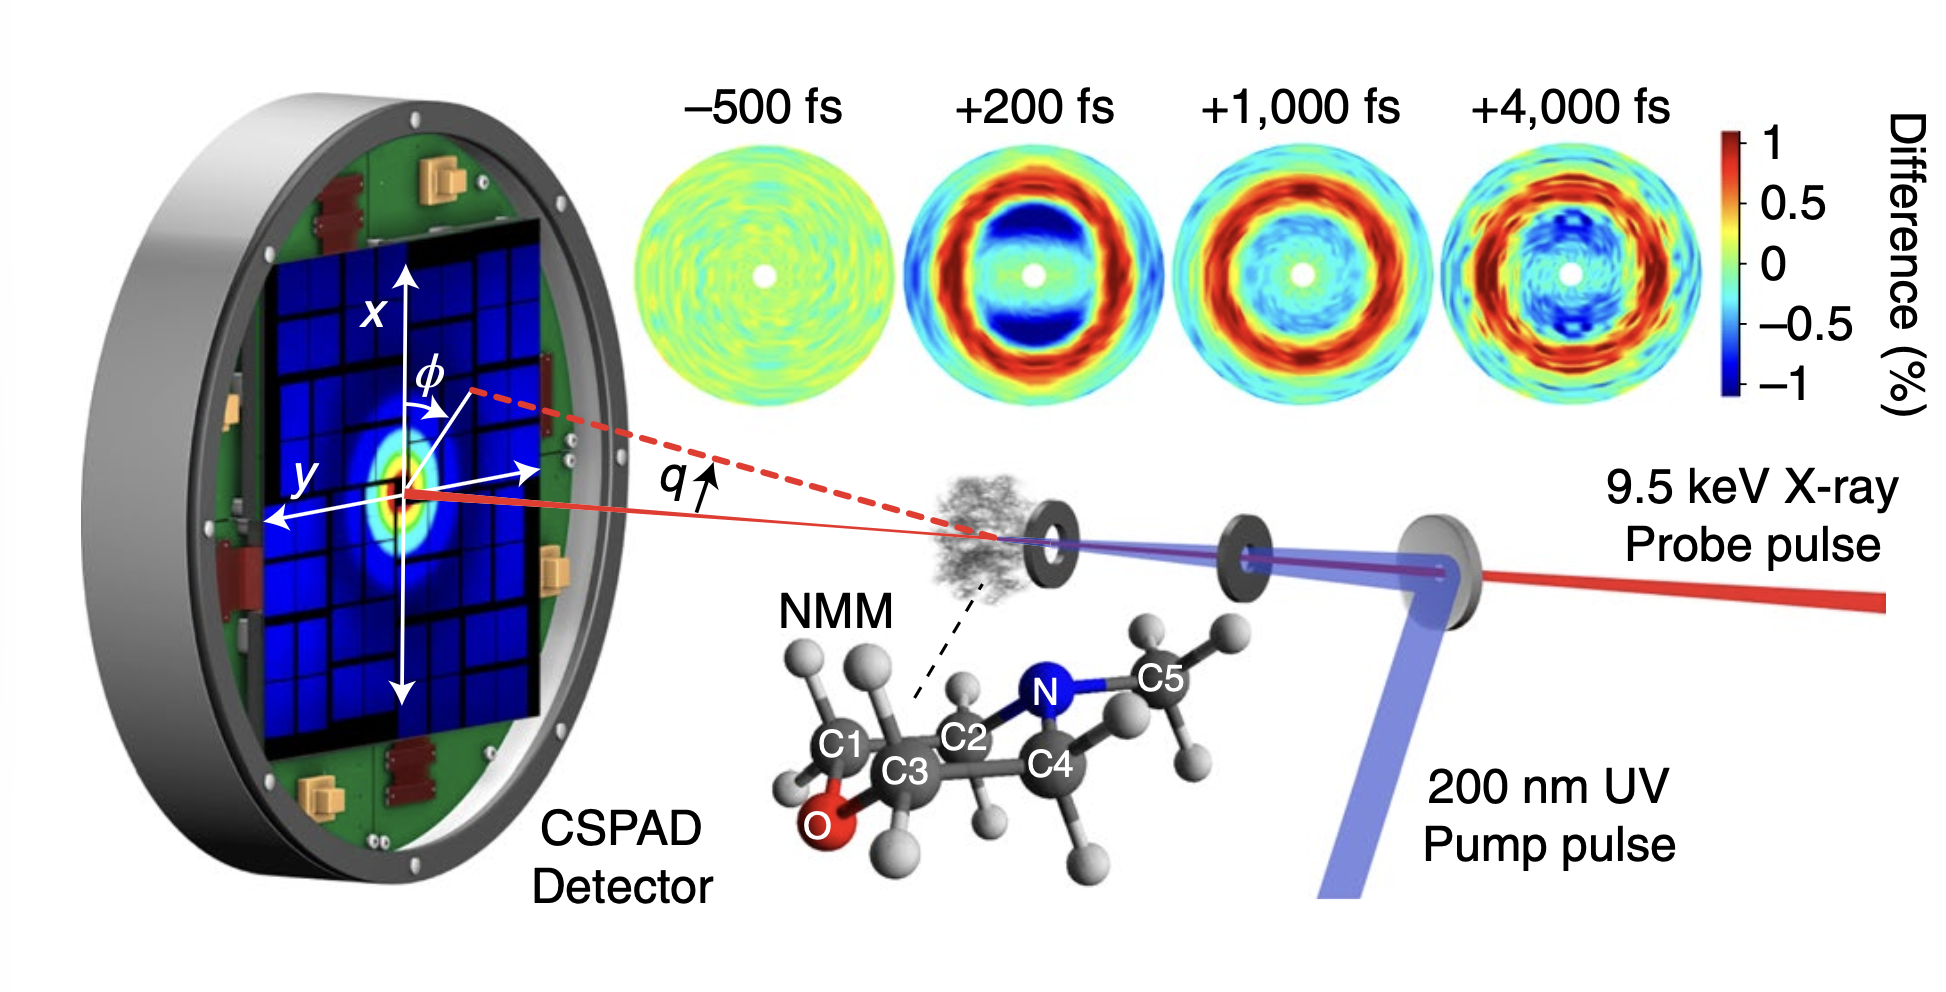
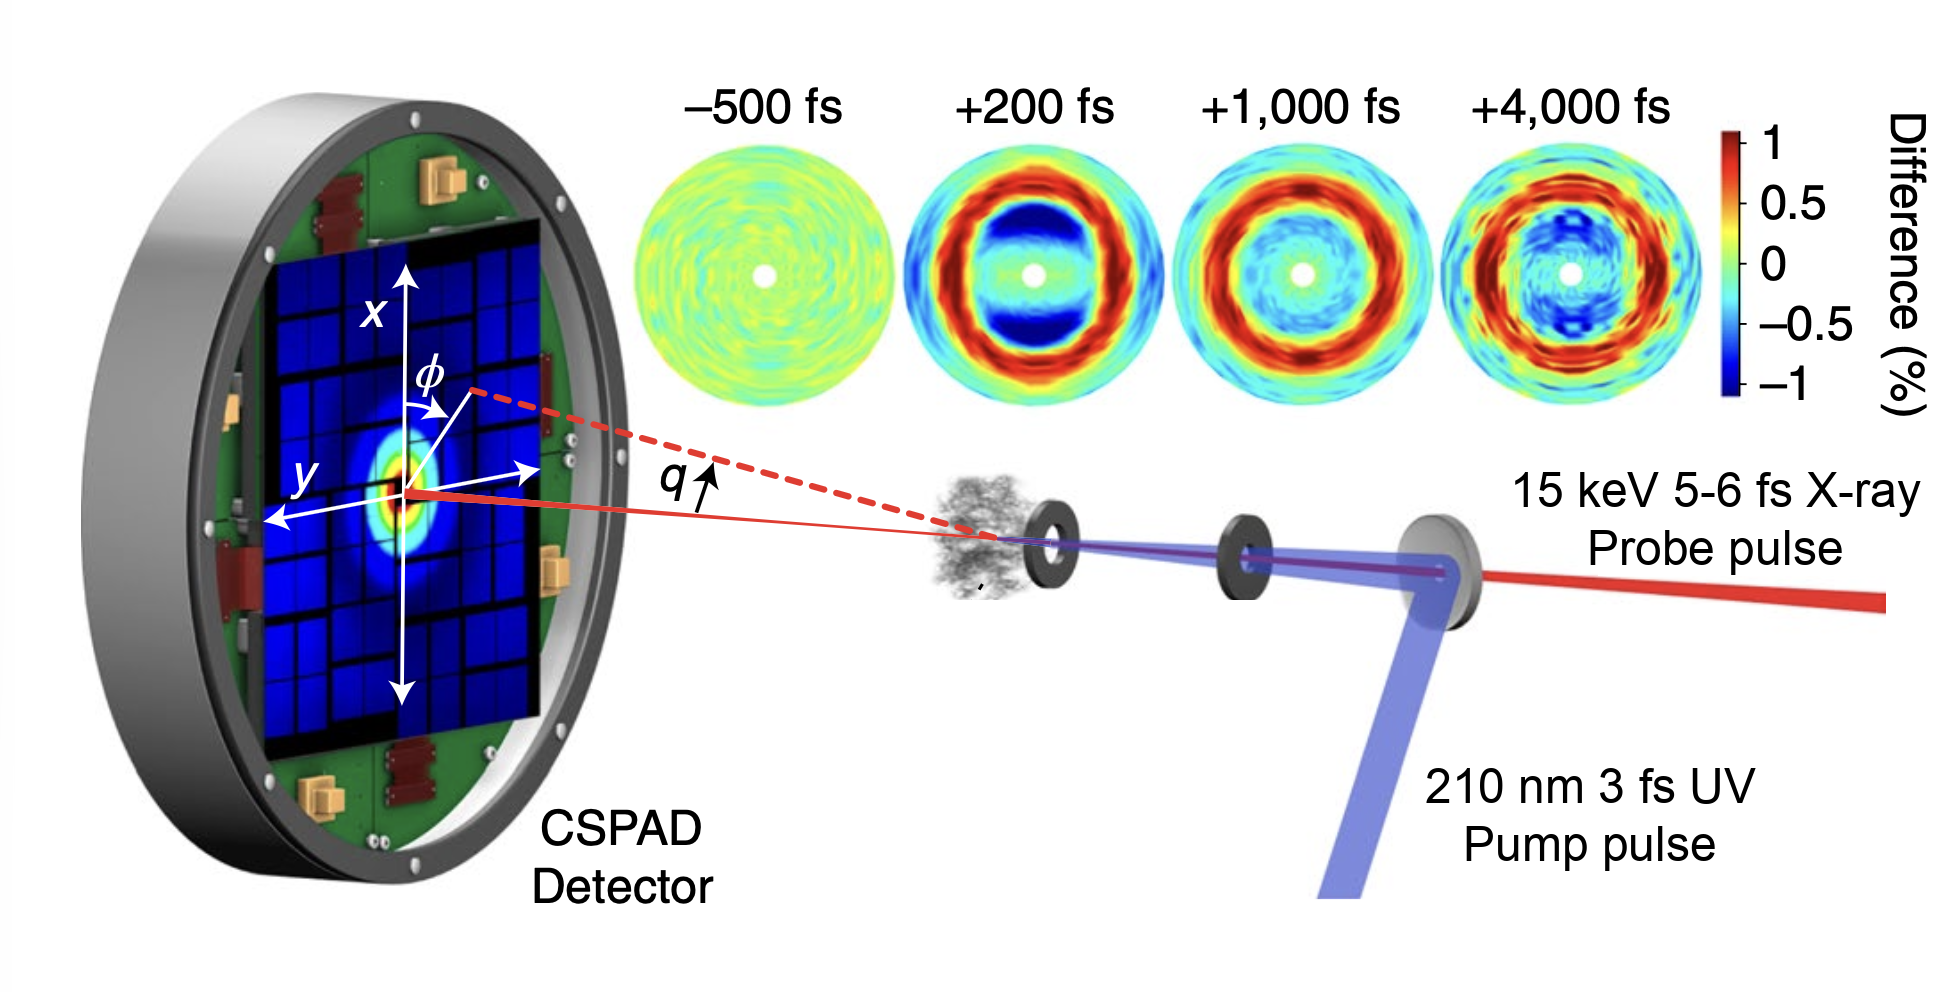
Rearrange slides

Changed region(s): [[0.37, 0.5938, 0.6475, 0.9062], [0.7708, 0.4688, 0.9866, 0.5938], [0.7091, 0.75, 0.8941, 0.875]]

diff --git a/presentations/2026/07-23-telluride/slides/vibrational_washout/vibrational_washout.html b/presentations/2026/07-23-telluride/slides/vibrational_washout/vibrational_washout.html
@@ -1,37 +1,30 @@
         <section>
-          <h3 style="margin: 0 0 0.3em;">Why No Coherent Oscillations in the Data?</h3>
-          <div style="display: flex; gap: 1.3em; align-items: stretch;">
+          <h3 style="margin: 0 0 0.25em;">Why No Oscillations in the Data?</h3>
+          <div style="display: flex; gap: 0.7em; align-items: center; margin-left: -2%;">
 
-            <!-- Left: stacked temporal line-outs, experiment above theory -->
-            <div style="flex: 1.15; display: flex; flex-direction: column; gap: 0.55em; min-width: 0;">
-              <div style="flex: 1; min-height: 165px; border: 2px dashed #bbb; border-radius: 6px;
-                          background: #fafafa; display: flex; align-items: center; justify-content: center;
-                          color: #999; font-size: 0.4em; text-align: center; padding: 0.5em;">
-                Experiment — $\Delta S(\tau)$ line-out
-              </div>
-              <div style="flex: 1; min-height: 165px; border: 2px dashed #bbb; border-radius: 6px;
-                          background: #fafafa; display: flex; align-items: center; justify-content: center;
-                          color: #999; font-size: 0.4em; text-align: center; padding: 0.5em;">
-                Simulation ($v=0$ Wigner) — $\Delta S(\tau)$ line-out
-              </div>
-              <p style="font-size: 0.3em; color: #666; text-align: center; margin: 0;">
-                Temporal line-out at $Q \approx 4.5$ Å⁻¹
-              </p>
+            <!-- Left: 2x2 grid of temporal line-outs, experiment above simulation -->
+            <div style="flex: 3.2; display: grid; grid-template-columns: auto 1fr 1fr;
+                        gap: 0.12em 0.4em; align-items: center;">
+              <div></div>
+              <div style="text-align: center; font-size: 0.32em; color: #44546A; font-weight: 600;">Q = 4.3–4.7 Å⁻¹</div>
+              <div style="text-align: center; font-size: 0.32em; color: #44546A; font-weight: 600;">Q = 0.8–1.5 Å⁻¹</div>
+
+              <div style="font-size: 0.32em; color: #44546A; font-weight: 600; writing-mode: vertical-rl; transform: rotate(180deg); text-align: center;">Experiment</div>
+              <img src="figures/data_vs_time_4.3_4.7.png" style="width: 100%; display: block;" />
+              <img src="figures/data_vs_time_0.8_1.5.png" style="width: 100%; display: block;" />
+
+              <div style="font-size: 0.32em; color: #44546A; font-weight: 600; writing-mode: vertical-rl; transform: rotate(180deg); text-align: center;">Simulation</div>
+              <img src="figures/scattering_vs_time_4.3_4.7.png" style="width: 100%; display: block;" />
+              <img src="figures/scattering_vs_time_0.8_1.5.png" style="width: 100%; display: block;" />
             </div>
 
-            <!-- Right: explanation -->
-            <div style="flex: 1; font-size: 0.40em;">
+            <!-- Right: reduced explanation -->
+            <div style="flex: 1.4; font-size: 0.44em;">
               <div class="col-box" style="border: 1px solid #ddd; border-radius: 8px; padding: 0.7em 0.9em;">
                 <ul style="margin: 0; padding-left: 1.2em;">
-                  <li>Simulations sample a <strong>$v=0$ Wigner distribution</strong> — the vibrational ground state, i.e. effectively vibrationally cold</li>
-                  <li>Theory predicts <strong>coherent oscillations</strong> in $\Delta S(\tau)$, but the measured signal rises smoothly with the oscillation washed out</li>
-                  <li>Two low-frequency modes are likely <strong>vibrationally hot</strong> in the real sample and dephase the coherent motion:
-                    <ul style="margin: 0.25em 0 0; padding-left: 1.1em; list-style: none;">
-                      <li>C–C torsion — <strong>168 cm⁻¹</strong> &nbsp;($\approx$ 200 fs period)</li>
-                      <li>C–C=C deformation — <strong>293 cm⁻¹</strong> &nbsp;($\approx$ 114 fs period)</li>
-                    </ul>
-                  </li>
-                  <li>These periods overlap the structural-oscillation timescale, so thermal spread across the modes smears the coherence in the ensemble average</li>
+                  <li><strong>65 fs (513 cm⁻¹)</strong> oscillation in simulation</li>
+                  <li>Matches C–C=C $A_g$ deformation mode</li>
+                  <li>C–C torsion $A_u$ (168 cm⁻¹, 200 fs) and C–C=C deformation $B_u$ (293 cm⁻¹, 114 fs) thermally accessible</li>
                 </ul>
               </div>
             </div>

diff --git a/presentations/2026/07-23-telluride/slides/butadiene_theory/butadiene_theory.html b/presentations/2026/07-23-telluride/slides/butadiene_theory/butadiene_theory.html
@@ -1,0 +1,40 @@
+        <section>
+          <h3 style="margin: 0 0 0.3em;">Butadiene — Comparison with Nonadiabatic Dynamics</h3>
+          <div style="position: relative; width: 106%; margin-left: -3%;">
+            <img src="figures/butadiene_theory_comparison.png"
+                 style="width: 100%; display: block;" />
+            <!-- Overlay aligned to the figure's data axes (viewBox = image px).
+                 Left panel:  x = 132.5 + 104.75*Q,  y = 596 - 1.3225*tau
+                 Right panel: x = 1276  + 117*Q,     y = 598 - 1.3325*tau -->
+            <svg viewBox="0 0 2352 866" preserveAspectRatio="none"
+                 style="position: absolute; inset: 0; width: 100%; height: 100%; pointer-events: none; overflow: visible;">
+              <defs>
+                <marker id="btcArrow" viewBox="0 0 10 10" refX="8.5" refY="5"
+                        markerWidth="6" markerHeight="6" orient="auto-start-reverse">
+                  <path d="M0,0 L10,5 L0,10 z" fill="#111111"/>
+                </marker>
+              </defs>
+
+              <!-- Click 1: rising-feature arrow on the experimental panel,
+                   (Q=2, tau=0) -> (Q=3.5, tau=100) -->
+              <g class="fragment" data-fragment-index="0" stroke-linecap="round">
+                <line x1="342" y1="596" x2="499" y2="464" stroke="#ffffff" stroke-width="15"/>
+                <line x1="342" y1="596" x2="499" y2="464" stroke="#111111" stroke-width="7"
+                      marker-end="url(#btcArrow)"/>
+              </g>
+
+              <!-- Click 2: Q = 2 and 3.2 guide lines over tau = 100-400 fs,
+                   on both the experimental (left) and simulated (right) panels -->
+              <g class="fragment" data-fragment-index="1" stroke-linecap="round">
+                <line x1="342"  y1="464" x2="342"  y2="67" stroke="#ffffff" stroke-width="13"/>
+                <line x1="468"  y1="464" x2="468"  y2="67" stroke="#ffffff" stroke-width="13"/>
+                <line x1="1451" y1="465" x2="1451" y2="65" stroke="#ffffff" stroke-width="13"/>
+                <line x1="1591" y1="465" x2="1591" y2="65" stroke="#ffffff" stroke-width="13"/>
+                <line x1="342"  y1="464" x2="342"  y2="67" stroke="#111111" stroke-width="6"/>
+                <line x1="468"  y1="464" x2="468"  y2="67" stroke="#111111" stroke-width="6"/>
+                <line x1="1451" y1="465" x2="1451" y2="65" stroke="#111111" stroke-width="6"/>
+                <line x1="1591" y1="465" x2="1591" y2="65" stroke="#111111" stroke-width="6"/>
+              </g>
+            </svg>
+          </div>
+        </section>

diff --git a/presentations/2026/07-23-telluride/slides/future_outlook/future_outlook.html b/presentations/2026/07-23-telluride/slides/future_outlook/future_outlook.html
@@ -1,0 +1,27 @@
+        <section>
+          <h3 style="margin: 0 0 0.4em;">Outlook</h3>
+          <div style="display: flex; gap: 1.2em; align-items: center;">
+
+            <div style="flex: 1; font-size: 0.44em;">
+              <div class="col-box" style="border: 1px solid #ddd; border-radius: 8px; padding: 0.8em 1em;">
+                <ul style="margin: 0; padding-left: 1.2em;">
+                  <li>Revisit butadiene in a <strong>full experiment</strong> — not a technical commissioning effort — and compare with <strong>methylated butadiene</strong></li>
+                  <li>Explore a <strong>cooled jet</strong> to freeze out $v=0$</li>
+                </ul>
+              </div>
+            </div>
+
+            <div style="flex: 1.25; display: flex; gap: 0.7em; align-items: flex-start;">
+              <div style="flex: 1; text-align: center;">
+                <div style="font-size: 0.34em; color: #44546A; font-weight: 600; margin-bottom: 0.2em;">a) Butadiene</div>
+                <img src="figures/butadiene_populations.png" style="width: 100%; display: block; border: 1px solid #eee; border-radius: 4px;" />
+              </div>
+              <div style="flex: 1; text-align: center;">
+                <div style="font-size: 0.34em; color: #44546A; font-weight: 600; margin-bottom: 0.2em;">b) Methylated Butadiene (T-MeBD)</div>
+                <img src="figures/tmebd_populations.png" style="width: 100%; display: block; border: 1px solid #eee; border-radius: 4px;" />
+                <div style="font-size: 0.28em; color: #777; margin-top: 0.2em;">Adiabatic populations vs time (0–1000 fs): $S_0$ green, $S_1$ blue, $S_2$ red</div>
+              </div>
+            </div>
+
+          </div>
+        </section>

diff --git a/presentations/2026/07-23-telluride/slides/butadiene_dynamics/butadiene_dynamics.html b/presentations/2026/07-23-telluride/slides/butadiene_dynamics/butadiene_dynamics.html
@@ -4,23 +4,29 @@
             <div class="col-box" style="flex: 1; border: 1px solid #ddd; border-radius: 8px; padding: 0.8em;">
               <h3>Photoexcitation</h3>
               <ul>
-                <li>Ground-state <em>s-trans</em> conformer; UV excitation populates the bright $S_2$ ($\pi\pi^*$) state</li>
-                <li>Ultrafast internal conversion $S_2 \to S_1$, typically tens of fs</li>
+                <li>Ground-state <em>s-trans</em> conformer; UV populates the bright $S_2$ ($\pi\pi^*$) state</li>
+                <li>Ultrafast internal conversion $S_2 \to S_1$ (tens of fs)</li>
               </ul>
             </div>
             <div class="col-box" style="flex: 1; border: 1px solid #ddd; border-radius: 8px; padding: 0.8em;">
-              <h3>The $S_1$ Conical Intersection</h3>
+              <h3>Two $S_1$/$S_0$ Conical Intersections</h3>
               <ul>
-                <li>$S_1$ evolves toward a twisted, <strong>pyramidalized</strong> geometry at one terminal carbon — the conical intersection to $S_0$</li>
-                <li>Passage through the CI returns population to the ground state on a sub-200 fs timescale</li>
+                <li><strong>Tw-Py</strong>: terminal-carbon twist + pyramidalization with charge separation — <em>polarized</em>, ethylene-like</li>
+                <li><strong>Transoid</strong>: twist about the central backbone, tetraradical — <em>radicaloid</em>, the cis–trans isomerisation coordinate</li>
               </ul>
             </div>
             <div class="col-box" style="flex: 1; border: 1px solid #ddd; border-radius: 8px; padding: 0.8em;">
-              <h3>Branching at the CI</h3>
+              <h3>Branching Is Decided on $S_1$</h3>
               <ul>
-                <li>Re-forms <em>s-trans</em>, isomerises to the other double-bond rotamer, or (minor channel) ring-closes to cyclobutene</li>
-                <li>Relative branching between simple torsional isomerisation and deeper pyramidalization pathways is the open question this measurement probes</li>
+                <li>The $S_1$ wavepacket bifurcates toward these seams — the branching is set on $S_1$, before reaching $S_0$</li>
+                <li>Simulations strongly favour the <strong>transoid</strong> (isomerisation) channel; the Tw-Py (pyramidalisation) route is minor</li>
+                <li>Terminal methylation further suppresses the polarized Tw-Py channel</li>
               </ul>
             </div>
           </div>
+          <div style="display: flex; gap: 1.8em; justify-content: center; align-items: flex-end; margin-top: 0.45em;">
+            <img src="figures/transoid_meci.png" style="height: 150px; object-fit: contain;" />
+            <img src="figures/twpy_meci.png" style="height: 150px; object-fit: contain;" />
+          </div>
+          <p class="slide-footnote">Seidu et al. <em>Phys. Chem. Chem. Phys.</em> (2022) <strong>24</strong>(3): 1345–1354.</p>
         </section>

diff --git a/presentations/2026/07-23-telluride/slides/mode_decompositions/mode_decompositions.html b/presentations/2026/07-23-telluride/slides/mode_decompositions/mode_decompositions.html
@@ -1,0 +1,15 @@
+        <section>
+          <h3 style="margin: 0 0 0.3em;">Key Structural Modes vs Time</h3>
+          <img src="figures/mode_decompositions.png"
+               style="width: 100%; object-fit: contain; display: block;" />
+          <div style="font-size: 0.40em; margin-top: 0.6em;">
+            <div class="col-box" style="border: 1px solid #ddd; border-radius: 8px; padding: 0.6em 0.9em;">
+              <ul style="margin: 0; padding-left: 1.2em;">
+                <li>Trajectory-ensemble population densities of three key structural coordinates versus delay $\tau$</li>
+                <li><strong>Bond-length alternation</strong> ($r_{C_1C_2} - r_{C_2C_3} + r_{C_3C_4}$): the single/double-bond pattern relaxes toward a common $\sim$1.5 Å on excitation</li>
+                <li><strong>C$_1$ pyramidalization</strong>: the terminal-carbon out-of-plane angle builds within $\sim$100 fs — the approach to the conical intersection</li>
+                <li><strong>Central-bond torsion</strong> ($\phi_{C_1C_2C_3C_4}$): the dihedral spreads from planar toward $\pm$180° — the isomerisation channel</li>
+              </ul>
+            </div>
+          </div>
+        </section>

diff --git a/presentations/2026/07-23-telluride/slides/population_evolution/population_evolution.html b/presentations/2026/07-23-telluride/slides/population_evolution/population_evolution.html
@@ -1,0 +1,13 @@
+        <section>
+          <h3 style="margin: 0 0 0.3em;">Butadiene — Simulated Population Dynamics</h3>
+          <img src="figures/population_evolution.png"
+               style="width: 100%; max-height: 400px; object-fit: contain;" />
+          <div style="font-size: 0.40em; margin-top: 0.5em;">
+            <div class="col-box" style="border: 1px solid #ddd; border-radius: 8px; padding: 0.6em 0.9em;">
+              <ul style="margin: 0; padding-left: 1.2em;">
+                <li>$v=0$ Wigner distribution, vertically projected</li>
+                <li>Ab Initio Multiple Spawning at MR-CIS theory level ((4,4) active space) with 6-31G* basis set</li>
+              </ul>
+            </div>
+          </div>
+        </section>

diff --git a/presentations/2026/07-23-telluride/slides/xray_scattering_intro/xray_scattering_intro.html b/presentations/2026/07-23-telluride/slides/xray_scattering_intro/xray_scattering_intro.html
@@ -1,15 +1,6 @@
         <section>
           <h3 style="margin: 0 0 0.3em;">Gas Phase Hard X-Ray Scattering</h3>
           <img src="figures/CXI_Scattering.png"
-               style="width: 100%; max-height: 400px; object-fit: contain;" />
-          <div style="font-size: 0.40em; margin-top: 0.5em;">
-            <div class="col-box" style="border: 1px solid #ddd; border-radius: 8px; padding: 0.6em 0.9em;">
-              <ul style="margin: 0; padding-left: 1.2em;">
-                <li>Elastic scattering pattern $S(Q)$ is a direct fingerprint of instantaneous atomic positions — no chromophore or transition dipole needed, unlike optical spectroscopy</li>
-                <li>fs-duration hard X-ray pulses (LCLS: $\sim$10 fs) resolve structural change on the same timescale as the nuclear motion itself, isolated via the pump–probe difference signal $\Delta S(Q, \tau)$</li>
-                <li>Independent Atom Model (IAM) connects a candidate geometry (or trajectory ensemble) to a predicted $S(Q)$, enabling direct comparison with theory</li>
-              </ul>
-            </div>
-          </div>
+               style="width: 100%; max-height: 560px; object-fit: contain;" />
           <p class="slide-footnote">Stankus, B., Yong, H., Zotev, N. et al. <em>Nat. Chem.</em> <strong>11</strong>, 716–721 (2019).</p>
         </section>

diff --git a/presentations/2026/07-23-telluride/slides/acknowledgements/acknowledgements.html b/presentations/2026/07-23-telluride/slides/acknowledgements/acknowledgements.html
@@ -29,21 +29,16 @@
                   <li>Michael Heynck</li>
                 </ul>
               </div>
-              <div class="col-box" style="border: 1px solid #ddd; border-radius: 8px; padding: 0.7em 0.9em;">
-                <h3>NRC</h3>
-                <ul>
-                  <li>Simon Neville</li>
-                </ul>
-              </div>
             </div>
 
             <div style="flex: 1; display: flex; flex-direction: column; gap: 1.2em;">
               <div class="col-box" style="border: 1px solid #ddd; border-radius: 8px; padding: 0.7em 0.9em;">
-                <h3>University of Ottawa</h3>
+                <h3>University of Ottawa / NRC</h3>
                 <ul>
                   <li>Michael Schuurman</li>
                   <li>Ryan McDonell</li>
                   <li>Issaka Seidu</li>
+                  <li>Simon Neville</li>
                 </ul>
               </div>
               <div class="col-box" style="border: 1px solid #ddd; border-radius: 8px; padding: 0.7em 0.9em;">

diff --git a/presentations/2026/07-23-telluride/slides/scattering_time_resolved_decomposition/scattering_time_resolved_decomposition.html b/presentations/2026/07-23-telluride/slides/scattering_time_resolved_decomposition/scattering_time_resolved_decomposition.html
@@ -1,5 +1,5 @@
         <section>
-          <h3 style="margin: 0 0 0.3em;">Theory Decomposition, Fully Time-Resolved</h3>
+          <h3 style="margin: 0 0 0.3em;">Theory Decomposition</h3>
           <img src="figures/comparison_trajectory_geometry.png"
                style="width: 100%; max-height: 380px; object-fit: contain;" />
           <div style="font-size: 0.40em; margin-top: 0.5em;">

diff --git a/presentations/2026/07-23-telluride/slides/xray_scattering_intro/scripts/relabel_scattering.py b/presentations/2026/07-23-telluride/slides/xray_scattering_intro/scripts/relabel_scattering.py
@@ -1,0 +1,58 @@
+"""
+relabel_scattering.py — reproduce figures/CXI_Scattering.png from the pristine
+paper schematic in data/CXI_Scattering_source.png (Stankus et al., Nat. Chem.
+11, 716-721 (2019)), with the two beam labels rewritten to this experiment's
+parameters:
+
+  "9.5 keV X-ray / Probe pulse"  ->  "15 keV 5-6 fs X-ray / Probe pulse"
+  "200 nm UV / Pump pulse"       ->  "210 nm 3 fs UV / Pump pulse"
+
+The original labels are black centred Arial (~48 px) on white. We paint white
+over the old text (verified to contain no beam/colorbar pixels) and redraw the
+new two-line labels at the same font size, colour, line pitch (58 px) and
+approximate position, nudged so the longer strings clear the colorbar (left of
+x=1482) and the UV beam (right edge x~1403) and stay inside the frame.
+
+Run with the slide folder as the working directory (build.py does this):
+    python scripts/relabel_scattering.py
+"""
+from PIL import Image, ImageDraw, ImageFont
+
+SRC = "data/CXI_Scattering_source.png"
+OUT = "figures/CXI_Scattering.png"
+FONT_PATH = "/System/Library/Fonts/Supplemental/Arial.ttf"
+FONT_SIZE = 48          # matches the original label size
+WHITE = (255, 255, 255, 255)
+BLACK = (0, 0, 0, 255)
+
+im = Image.open(SRC).convert("RGBA")
+draw = ImageDraw.Draw(im)
+font = ImageFont.truetype(FONT_PATH, FONT_SIZE)
+
+# Erase the original labels (boxes verified to be text-on-white only).
+draw.rectangle((1598, 460, 1912, 575), fill=WHITE)   # 9.5 keV X-ray / Probe pulse
+draw.rectangle((1412, 758, 1700, 878), fill=WHITE)   # 200 nm UV / Pump pulse
+
+
+def centered_line(cx, cy, text):
+    draw.text((cx, cy), text, font=font, fill=BLACK, anchor="mm")
+
+
+# X-ray label: centre nudged left to 1715 so the longer line clears the frame.
+centered_line(1715, 490, "15 keV 5-6 fs X-ray")
+centered_line(1715, 548, "Probe pulse")
+
+# UV label: centre 1590 keeps it clear of the UV beam on its left.
+centered_line(1590, 786, "210 nm 3 fs UV")
+centered_line(1590, 844, "Pump pulse")
+
+# Blank the NMM molecular-structure inset (ball-and-stick, atom labels, "NMM"
+# text and the dashed pointer). Two boxes preserve the CSPAD detector + text
+# (left of x~712), the gas-jet cloud (above y~598) and the beams: the left box
+# reaches higher to catch the "NMM" label (no cloud there); the right box stops
+# at y=600 so the gas cloud is untouched.
+draw.rectangle((742, 585, 900, 900), fill=WHITE)    # NMM label + left of molecule
+draw.rectangle((895, 600, 1270, 900), fill=WHITE)   # molecule body, below the cloud
+
+im.save(OUT)
+print(f"Saved -> {OUT}")

diff --git a/presentations/2026/07-23-telluride/slides/mode_decompositions/scripts/crop_modes.py b/presentations/2026/07-23-telluride/slides/mode_decompositions/scripts/crop_modes.py
@@ -1,0 +1,43 @@
+"""
+crop_modes.py — composite the three key structural-mode decompositions from the
+butadiene trajectory analysis into one figure (figures/mode_decompositions.png):
+
+  1. rC1C2 - rC2C3 + rC3C4 (A)     [pyramidalization_vs_torsion, upper-left]
+  2. C1 pyramidalization (deg)     [pyramidalization_vs_torsion, lower-left]
+  3. C1-C2-C3-C4 dihedral (deg)    [distance_angle_dihedral, lower-right]
+
+Panels are cropped from the two source analysis figures in data/, scaled to a
+common height, and laid out side by side on white. Crop boxes include each
+panel's title/axes/colorbar while excluding neighbours: the dihedral left edge
+is 1185 px, in the clean gap between the middle column's colorbar labels
+(<=1176 px) and the dihedral y-axis labels (>=1194 px).
+
+Run with the slide folder as the working directory (build.py does this):
+    python scripts/crop_modes.py
+"""
+from PIL import Image
+
+PYR  = "data/pyramidalization_vs_torsion_analysis.png"   # 1300x1000, 2x2 grid
+DIST = "data/distance_angle_dihedral_analysis.png"       # 1800x900,  2x3 grid
+OUT  = "figures/mode_decompositions.png"
+
+pyr  = Image.open(PYR).convert("RGB")
+dist = Image.open(DIST).convert("RGB")
+
+panels = [
+    pyr.crop((0,     0,  655,  500)),   # rC1C2 - rC2C3 + rC3C4
+    pyr.crop((0,   500,  655, 1000)),   # C1 pyramidalization
+    dist.crop((1185, 455, 1800, 900)),  # C1-C2-C3-C4 dihedral
+]
+
+H, GAP = 470, 26
+scaled = [p.resize((round(p.width * H / p.height), H), Image.LANCZOS) for p in panels]
+
+W = sum(p.width for p in scaled) + GAP * (len(scaled) - 1)
+canvas = Image.new("RGB", (W, H), "white")
+x = 0
+for p in scaled:
+    canvas.paste(p, (x, 0))
+    x += p.width + GAP
+canvas.save(OUT)
+print(f"Saved -> {OUT}  {canvas.size}")